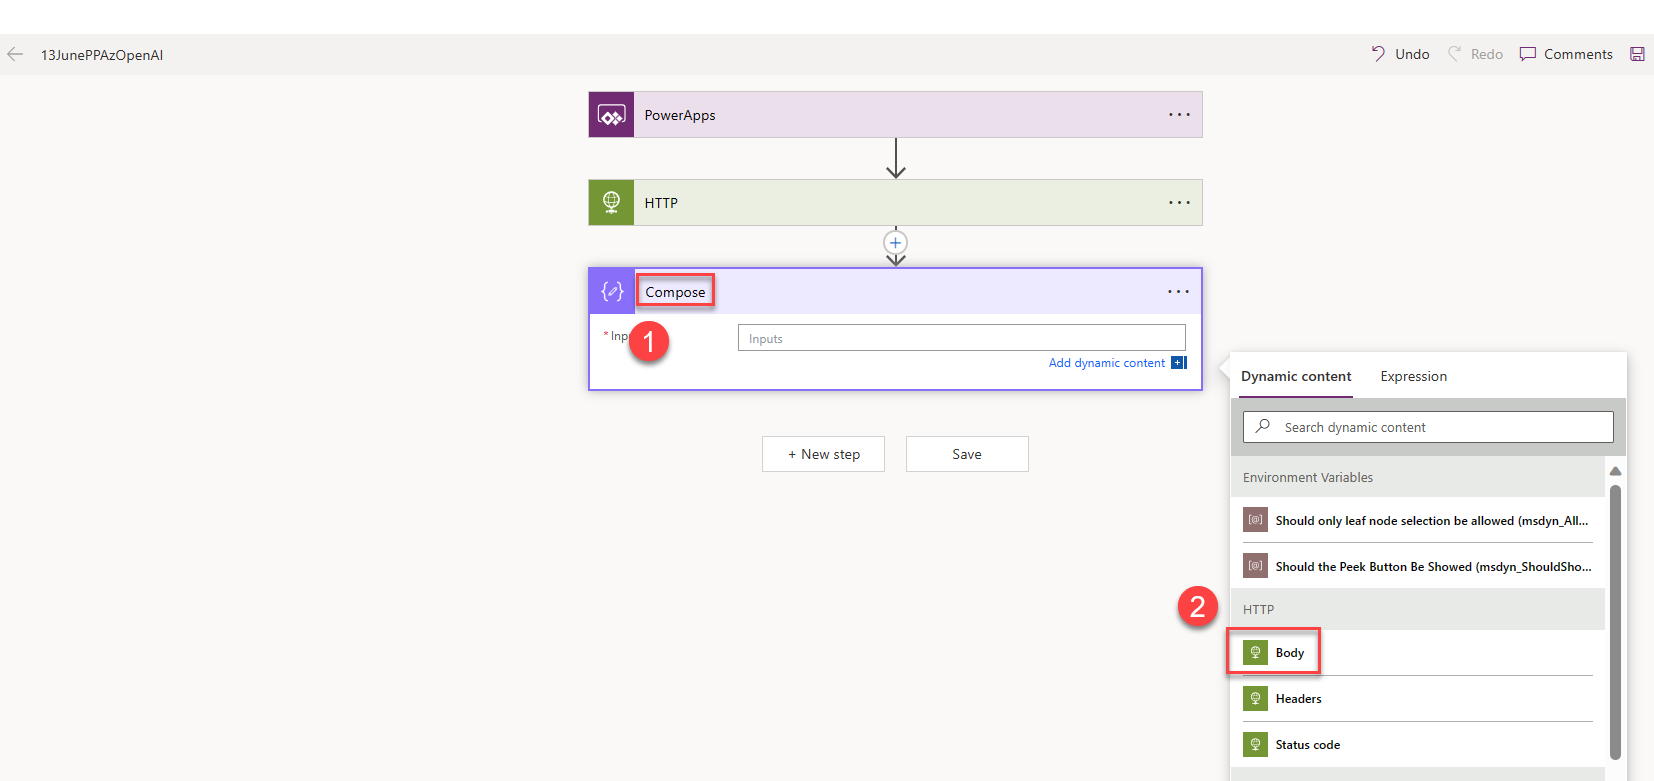
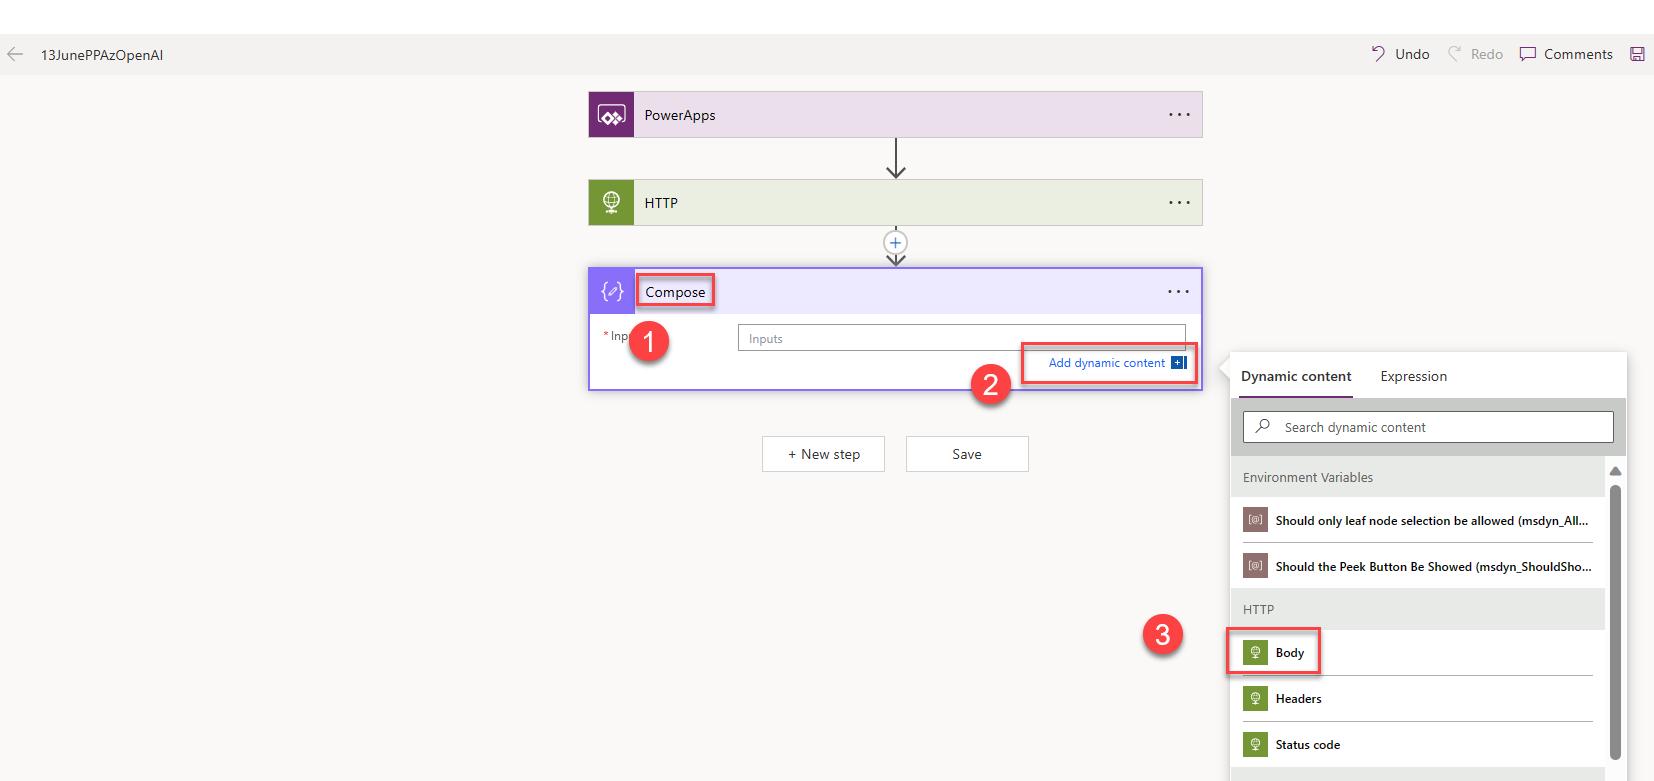
readme

Changed region(s): [[0.5859, 0.4302, 0.74, 0.5224], [0.6784, 0.7375, 0.74, 0.8604]]

diff --git a/01SimplePowerAppswithAzureOpenAISample/Readme.md b/01SimplePowerAppswithAzureOpenAISample/Readme.md
@@ -84,7 +84,13 @@ For Body of HTTP, you need a craft JSON content from [Azure OpenAI API refrence]
   "frequency_penalty": 0
 }
 
+
+
 ```
+
+For getting the question from PowerApps, double click on **Ask in PowerApps** within **prompt**
+
+
 
 
 # Step 11 
